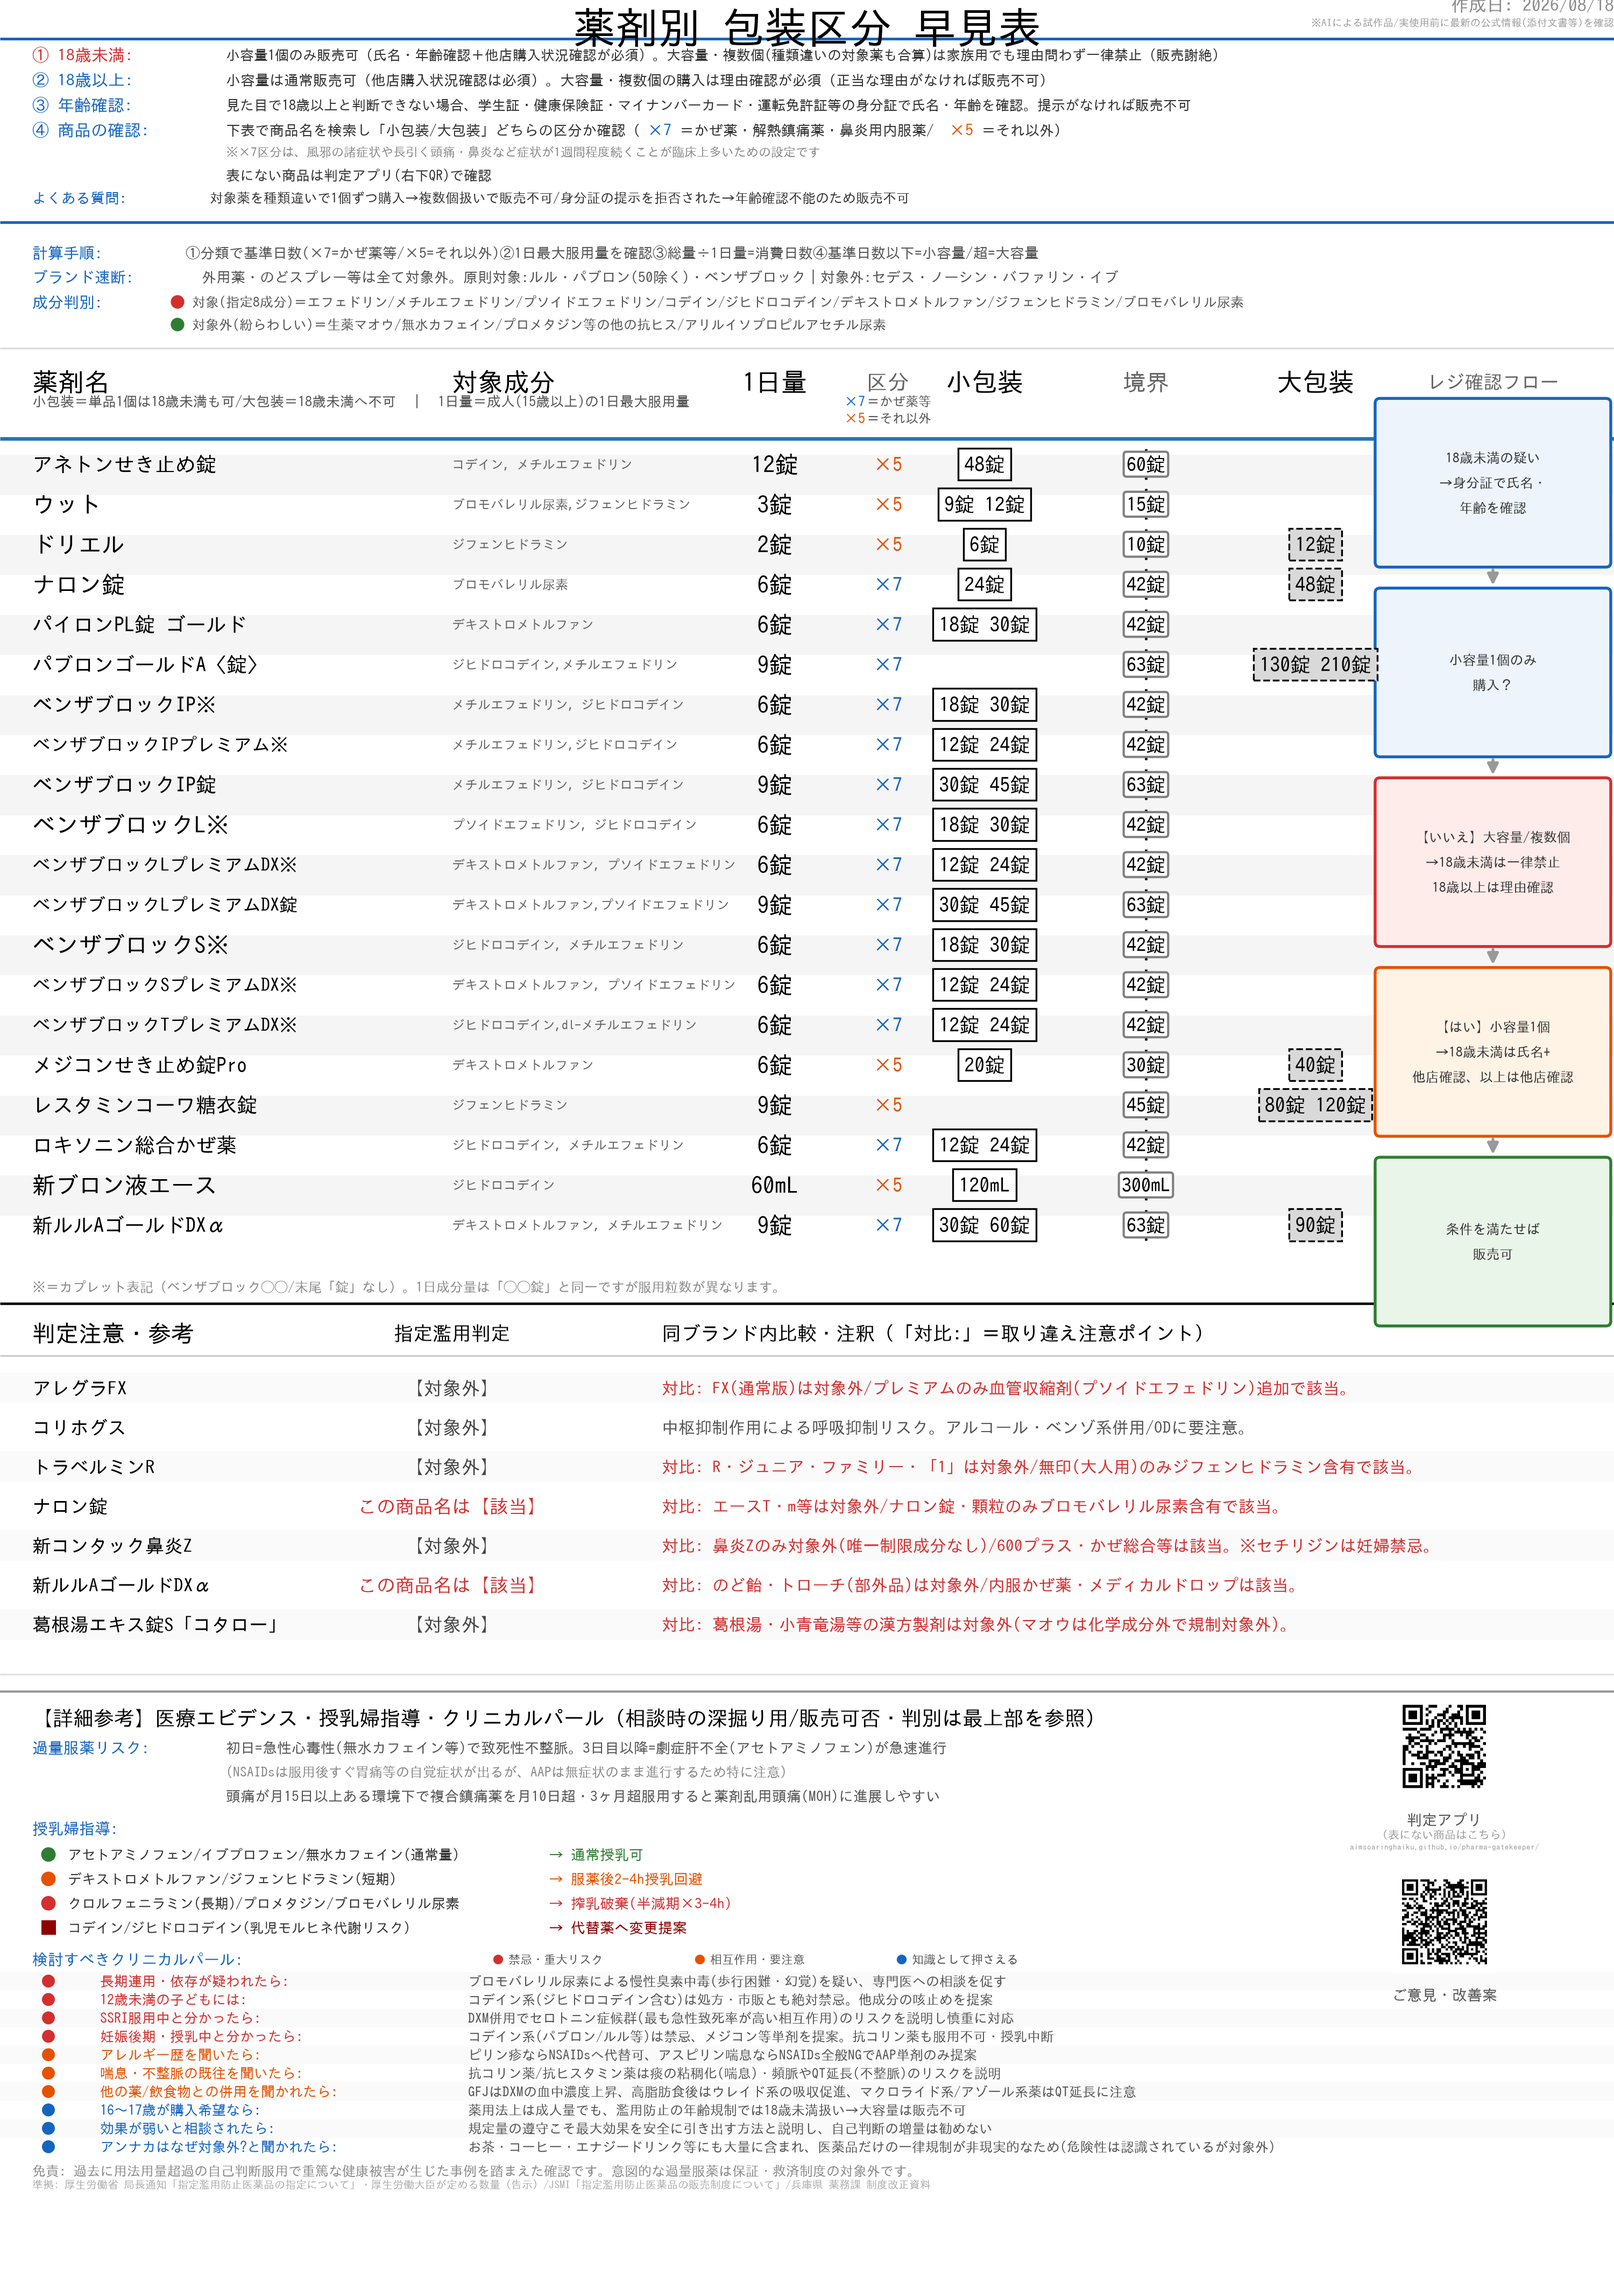
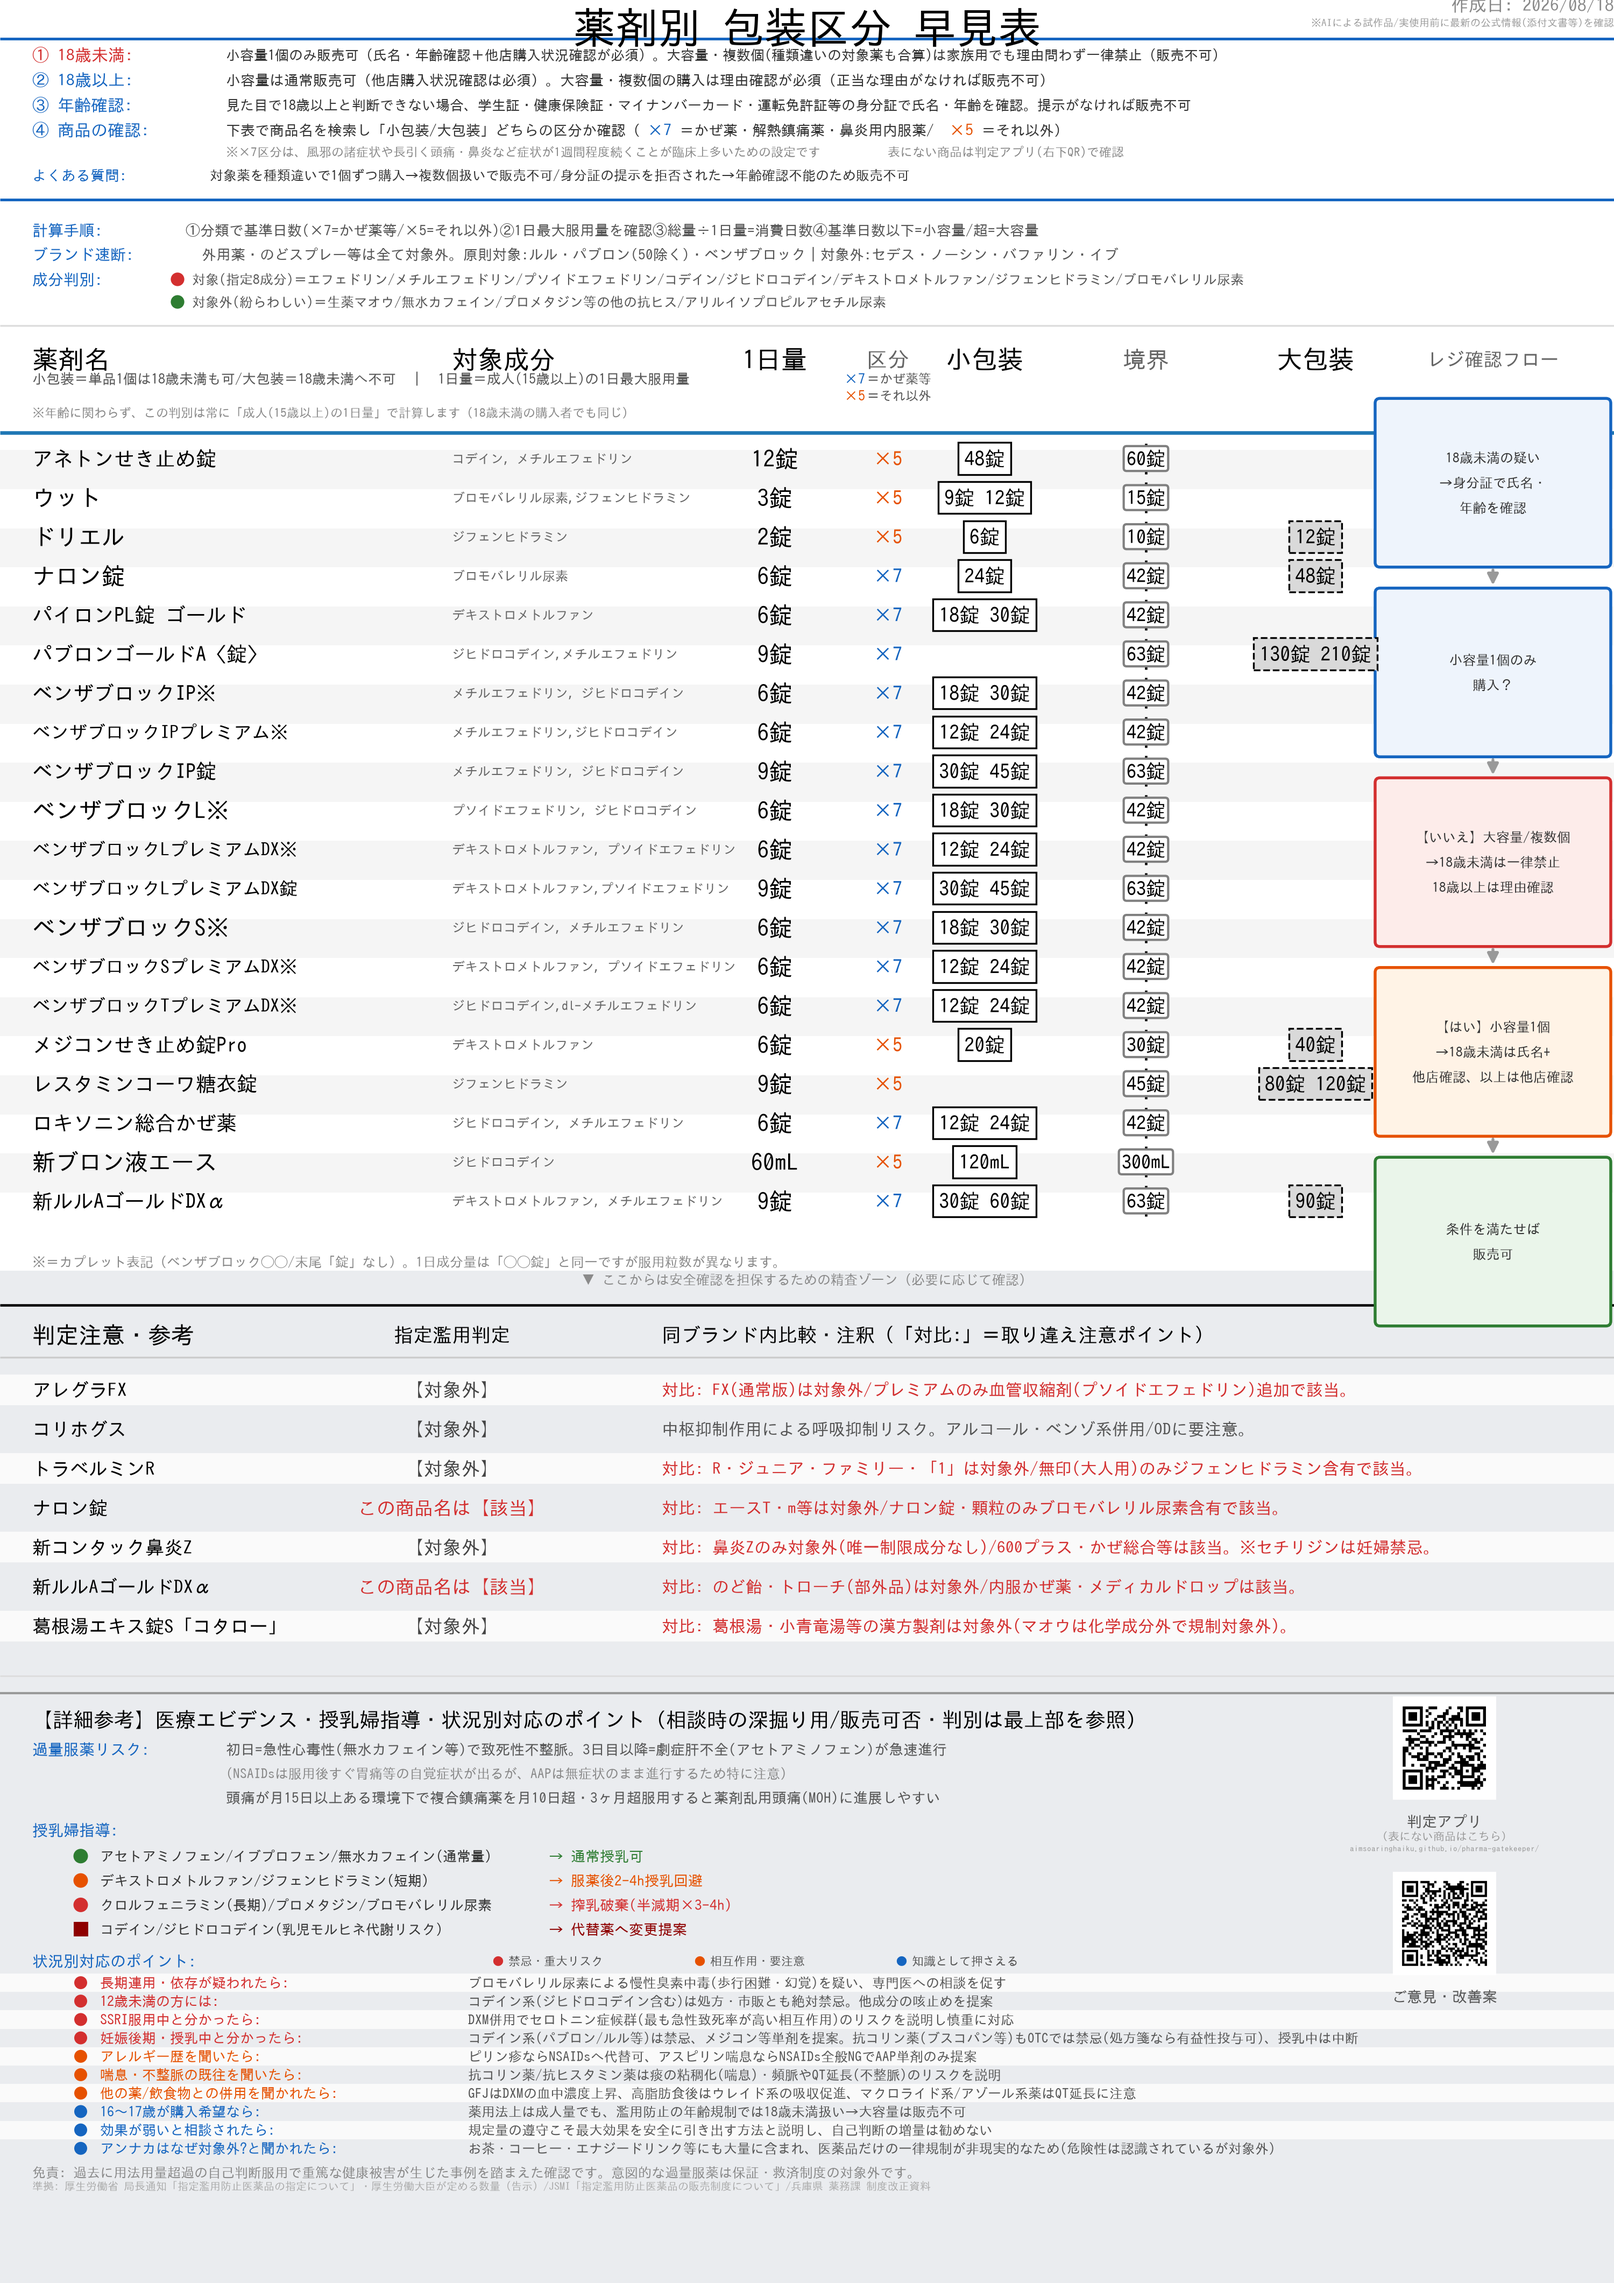
即断ゾーン/精査ゾーンを視覚的に区分し、文言・内容を修正
・「▼ここからは安全確認を担保するための精査ゾーン」の区切りと
  薄いグレー背景で、判定注意・参考以降を視覚的に分離
・ブスコパン等抗コリン薬をOTC禁忌/処方箋なら有益性投与可に修正
・「12歳未満の子どもには」→「12歳未満の方には」、「販売謝絶」→
  「販売不可」、「クリニカルパール」→「状況別対応のポイント」に
  変更し、一般的な表現に統一
・年齢に関わらず常に成人(15歳以上)の1日量で計算するルールを明記
・「表にない商品は～」を一つ上の行の右隣に移動
・授乳婦指導のマーカー位置を状況別対応のポイントと同じインデントに統一

diff --git a/vpc_v9_single_page.py b/vpc_v9_single_page.py
@@ -164,7 +164,7 @@ ax.hlines(current_y + 0.85, 0, LOGICAL_W, colors=BLUE, linewidth=1.2)
 current_y -= 0.15
 ax.text(COL_NAME_X, current_y, "① 18歳未満:", fontsize=7.4, fontweight="bold", ha="left", va="center", color=RED)
 ax.text(COL_NAME_X + 12.0, current_y,
-        "小容量1個のみ販売可（氏名・年齢確認＋他店購入状況確認が必須）。大容量・複数個(種類違いの対象薬も合算)は家族用でも理由問わず一律禁止（販売謝絶）",
+        "小容量1個のみ販売可（氏名・年齢確認＋他店購入状況確認が必須）。大容量・複数個(種類違いの対象薬も合算)は家族用でも理由問わず一律禁止（販売不可）",
         fontsize=6.3, ha="left", va="center", color="#333333", fontweight="bold")
 current_y -= 1.55
 ax.text(COL_NAME_X, current_y, "② 18歳以上:", fontsize=7.4, fontweight="bold", ha="left", va="center", color=BLUE)
@@ -187,9 +187,8 @@ current_y -= 1.35
 ax.text(COL_NAME_X + 12.0, current_y,
         "※×7区分は、風邪の諸症状や長引く頭痛・鼻炎など症状が1週間程度続くことが臨床上多いための設定です",
         fontsize=5.6, ha="left", va="center", color=LGRAY)
+ax.text(COL_NAME_X + 53.0, current_y, "表にない商品は判定アプリ(右下QR)で確認", fontsize=5.6, ha="left", va="center", color="#888888")
 current_y -= 1.45
-ax.text(COL_NAME_X + 12.0, current_y, "表にない商品は判定アプリ(右下QR)で確認", fontsize=6.3, ha="left", va="center", color="#333333")
-current_y -= 1.4
 ax.text(COL_NAME_X, current_y, "よくある質問:", fontsize=6.6, fontweight="bold", ha="left", va="center", color=BLUE)
 ax.text(COL_NAME_X + 11.0, current_y,
         "対象薬を種類違いで1個ずつ購入→複数個扱いで販売不可/身分証の提示を拒否された→年齢確認不能のため販売不可",
@@ -242,13 +241,16 @@ ax.text(53.7, current_y, "＝かぜ薬等", fontsize=5.7, ha="left", va="center"
 current_y -= 1.05
 ax.text(52.3, current_y, "×5", fontsize=6.3, fontweight="bold", ha="left", va="center", color=ORANGE)
 ax.text(53.7, current_y, "＝それ以外", fontsize=5.7, ha="left", va="center", color="#555555")
+current_y -= 1.05
+ax.text(COL_NAME_X, current_y, "※年齢に関わらず、この判別は常に「成人(15歳以上)の1日量」で計算します（18歳未満の購入者でも同じ）",
+        fontsize=5.6, ha="left", va="center", color=LGRAY)
 
 current_y -= 1.25
 ax.hlines(current_y, 0, LOGICAL_W, linewidth=1.6)
 current_y -= 1.6
 
 main_rows = len(mart)
-row_height = 2.48
+row_height = 2.42
 
 # --- レジ確認フロー（本体テーブル右の空きスペースに縦長ミニフローチャート） ---
 FLOW_HALF_W = 7.0
@@ -322,6 +324,14 @@ current_y -= 1.35
 ax.text(COL_NAME_X, current_y,
         "※＝カプレット表記（ベンザブロック◯◯/末尾「錠」なし）。1日成分量は「◯◯錠」と同一ですが服用粒数が異なります。",
         fontsize=6.1, ha="left", va="center", color="#888888")
+
+# --- ゾーン区分：ここから下は「精査ゾーン」（安全確認業務の質を担保する詳細情報） ---
+current_y -= 1.1
+zone_top = current_y + 0.55
+ax.add_patch(patches.Rectangle((0, -3), LOGICAL_W, zone_top + 3, facecolor="#eaecef", edgecolor="none", zorder=-2))
+ax.text(LOGICAL_W / 2, current_y, "▼ ここからは安全確認を担保するための精査ゾーン（必要に応じて確認）",
+        fontsize=6.0, fontweight="bold", ha="center", va="center", color="#8a8a8a", style="italic")
+current_y -= 0.55
 
 # --- 判定注意・参考（マトリックス） ---
 ref_rows = len(reference) if not reference.empty else 0
@@ -399,7 +409,7 @@ DL, DR = 0.0, 82.0  # 本文カラム幅（右のQR縦積み列を避ける）
 y = detail_top
 ax.hlines(y, 0, LOGICAL_W, colors="#999999", linewidth=1.0)
 y -= 1.62
-ax.text(COL_NAME_X, y, "【詳細参考】医療エビデンス・授乳婦指導・クリニカルパール（相談時の深掘り用/販売可否・判別は最上部を参照）",
+ax.text(COL_NAME_X, y, "【詳細参考】医療エビデンス・授乳婦指導・状況別対応のポイント（相談時の深掘り用/販売可否・判別は最上部を参照）",
         fontsize=9.15, fontweight="bold", ha="left", va="center")
 y -= 1.84
 
@@ -425,13 +435,13 @@ nursing_rows = [
     (DARKRED, "square", "代替薬へ変更提案", "コデイン/ジヒドロコデイン(乳児モルヒネ代謝リスク)"),
 ]
 for color, shape, tag, ingr in nursing_rows:
-    marker(ax, COL_NAME_X + 1.0, y, color, shape, 0.45)
-    ax.text(COL_NAME_X + 2.2, y, ingr, fontsize=6.3, fontweight="bold", ha="left", va="center", color="#333333")
+    marker(ax, COL_NAME_X + 3.0, y, color, shape, 0.45)
+    ax.text(COL_NAME_X + 4.2, y, ingr, fontsize=6.3, fontweight="bold", ha="left", va="center", color="#333333")
     ax.text(COL_NAME_X + 32.0, y, "→ " + tag, fontsize=6.4, fontweight="bold", ha="left", va="center", color=color)
     y -= 1.51
 
 y -= 0.45
-ax.text(COL_NAME_X, y, "検討すべきクリニカルパール:", fontsize=7.07, fontweight="bold", ha="left", va="center", color=BLUE)
+ax.text(COL_NAME_X, y, "状況別対応のポイント:", fontsize=7.07, fontweight="bold", ha="left", va="center", color=BLUE)
 ax.text(COL_NAME_X + 28.5, y, "●", fontsize=5.3, ha="left", va="center", color=RED)
 ax.text(COL_NAME_X + 29.5, y, "禁忌・重大リスク", fontsize=5.3, ha="left", va="center", color="#555555")
 ax.text(COL_NAME_X + 41.0, y, "●", fontsize=5.3, ha="left", va="center", color=ORANGE)
@@ -442,9 +452,9 @@ SAFETY_SUBJ_X = COL_NAME_X + 4.2
 SAFETY_DET_X = COL_NAME_X + 27.0
 safety_items = [
     (RED, "長期連用・依存が疑われたら:", "ブロモバレリル尿素による慢性臭素中毒(歩行困難・幻覚)を疑い、専門医への相談を促す"),
-    (RED, "12歳未満の子どもには:", "コデイン系(ジヒドロコデイン含む)は処方・市販とも絶対禁忌。他成分の咳止めを提案"),
+    (RED, "12歳未満の方には:", "コデイン系(ジヒドロコデイン含む)は処方・市販とも絶対禁忌。他成分の咳止めを提案"),
     (RED, "SSRI服用中と分かったら:", "DXM併用でセロトニン症候群(最も急性致死率が高い相互作用)のリスクを説明し慎重に対応"),
-    (RED, "妊娠後期・授乳中と分かったら:", "コデイン系(パブロン/ルル等)は禁忌、メジコン等単剤を提案。抗コリン薬も服用不可・授乳中断"),
+    (RED, "妊娠後期・授乳中と分かったら:", "コデイン系(パブロン/ルル等)は禁忌、メジコン等単剤を提案。抗コリン薬(ブスコパン等)もOTCでは禁忌(処方箋なら有益性投与可)、授乳中は中断"),
     (ORANGE, "アレルギー歴を聞いたら:", "ピリン疹ならNSAIDsへ代替可、アスピリン喘息ならNSAIDs全般NGでAAP単剤のみ提案"),
     (ORANGE, "喘息・不整脈の既往を聞いたら:", "抗コリン薬/抗ヒスタミン薬は痰の粘稠化(喘息)・頻脈やQT延長(不整脈)のリスクを説明"),
     (ORANGE, "他の薬/飲食物との併用を聞かれたら:", "GFJはDXMの血中濃度上昇、高脂肪食後はウレイド系の吸収促進、マクロライド系/アゾール系薬はQT延長に注意"),
@@ -456,7 +466,7 @@ y -= 1.35
 for i, (color, subj, detail) in enumerate(safety_items):
     if i % 2 == 0:
         ax.add_patch(patches.Rectangle((0, y - 0.57), LOGICAL_W, 1.14, facecolor="#fafafa", edgecolor="none"))
-    marker(ax, COL_NAME_X + 1.0, y, color, "circle", 0.4)
+    marker(ax, COL_NAME_X + 3.0, y, color, "circle", 0.4)
     ax.text(SAFETY_SUBJ_X, y, subj, fontsize=6.2, fontweight="bold", ha="left", va="center", color=color)
     ax.text(SAFETY_DET_X, y, detail, fontsize=6.1, ha="left", va="center", color=GRAY)
     y -= 1.14
